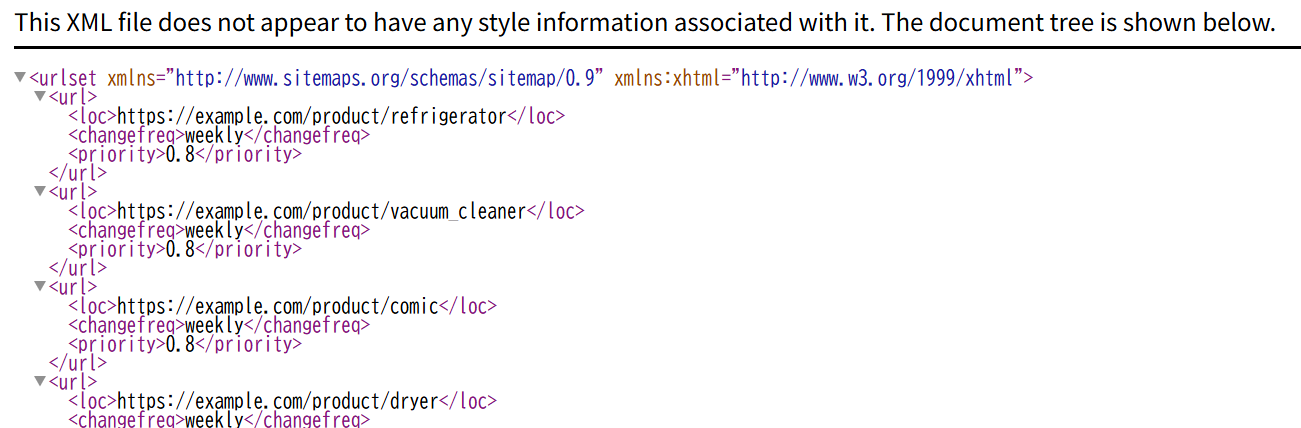
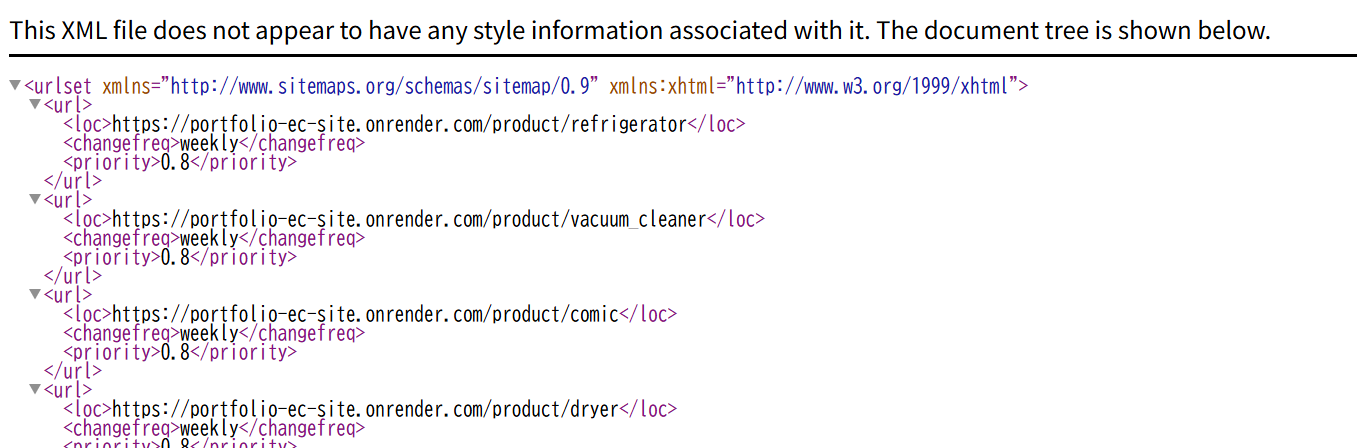
READMEの修正、および不要なコードの削除

Changed region(s): [[0.0, 0.0304, 1.0, 1.0]]

diff --git a/app/sitemaps.py b/app/sitemaps.py
@@ -16,9 +16,3 @@ class ItemSitemap(Sitemap):
     # sitemap.xmlに書かれる各URLを生成
     def location(self, obj):
         return reverse('product', args=[obj.slug])
-    
-    def get_urls(self, site=None, **kwargs):
-        if site is None:
-            # ドメインを指定
-            site = Site(domain="portfolio-ec-site.onrender.com", name="portfolio-ec-site")
-        return super().get_urls(site=site, **kwargs)

diff --git a/README.md b/README.md
@@ -336,6 +336,6 @@ class ItemSitemap(Sitemap):
     def location(self, obj):
         return reverse('product', args=[obj.slug])
 ```
-![GSC](./ec_site_GSC.png)  
+![GSC](./ec_site_gsc.png)  
 
 ---
